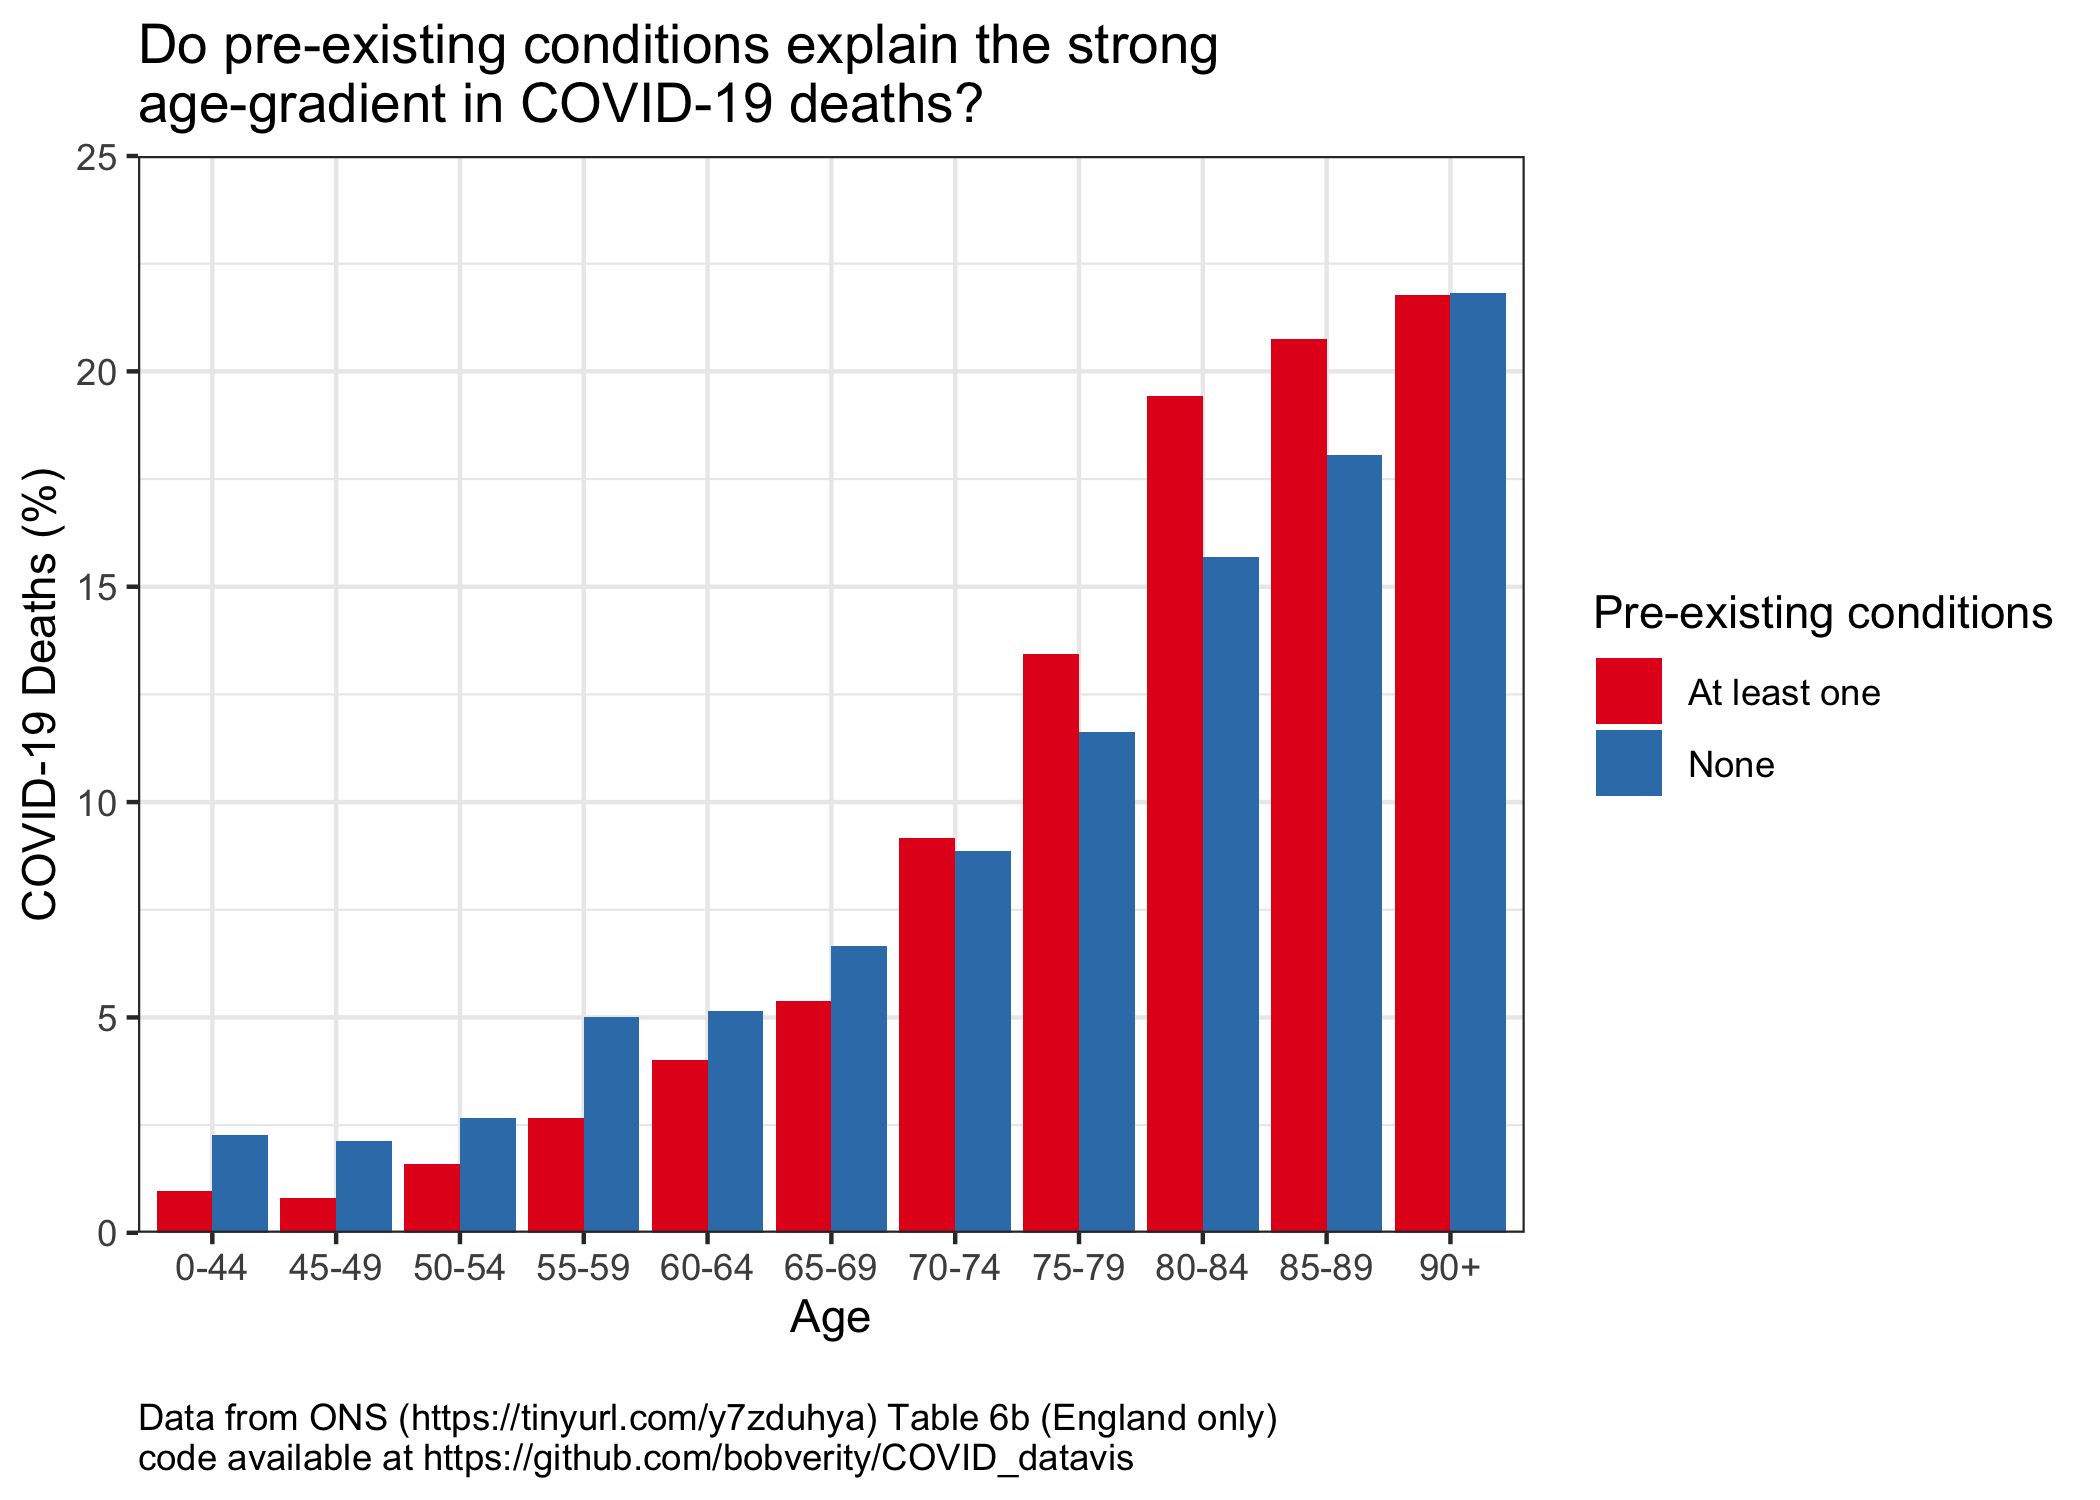
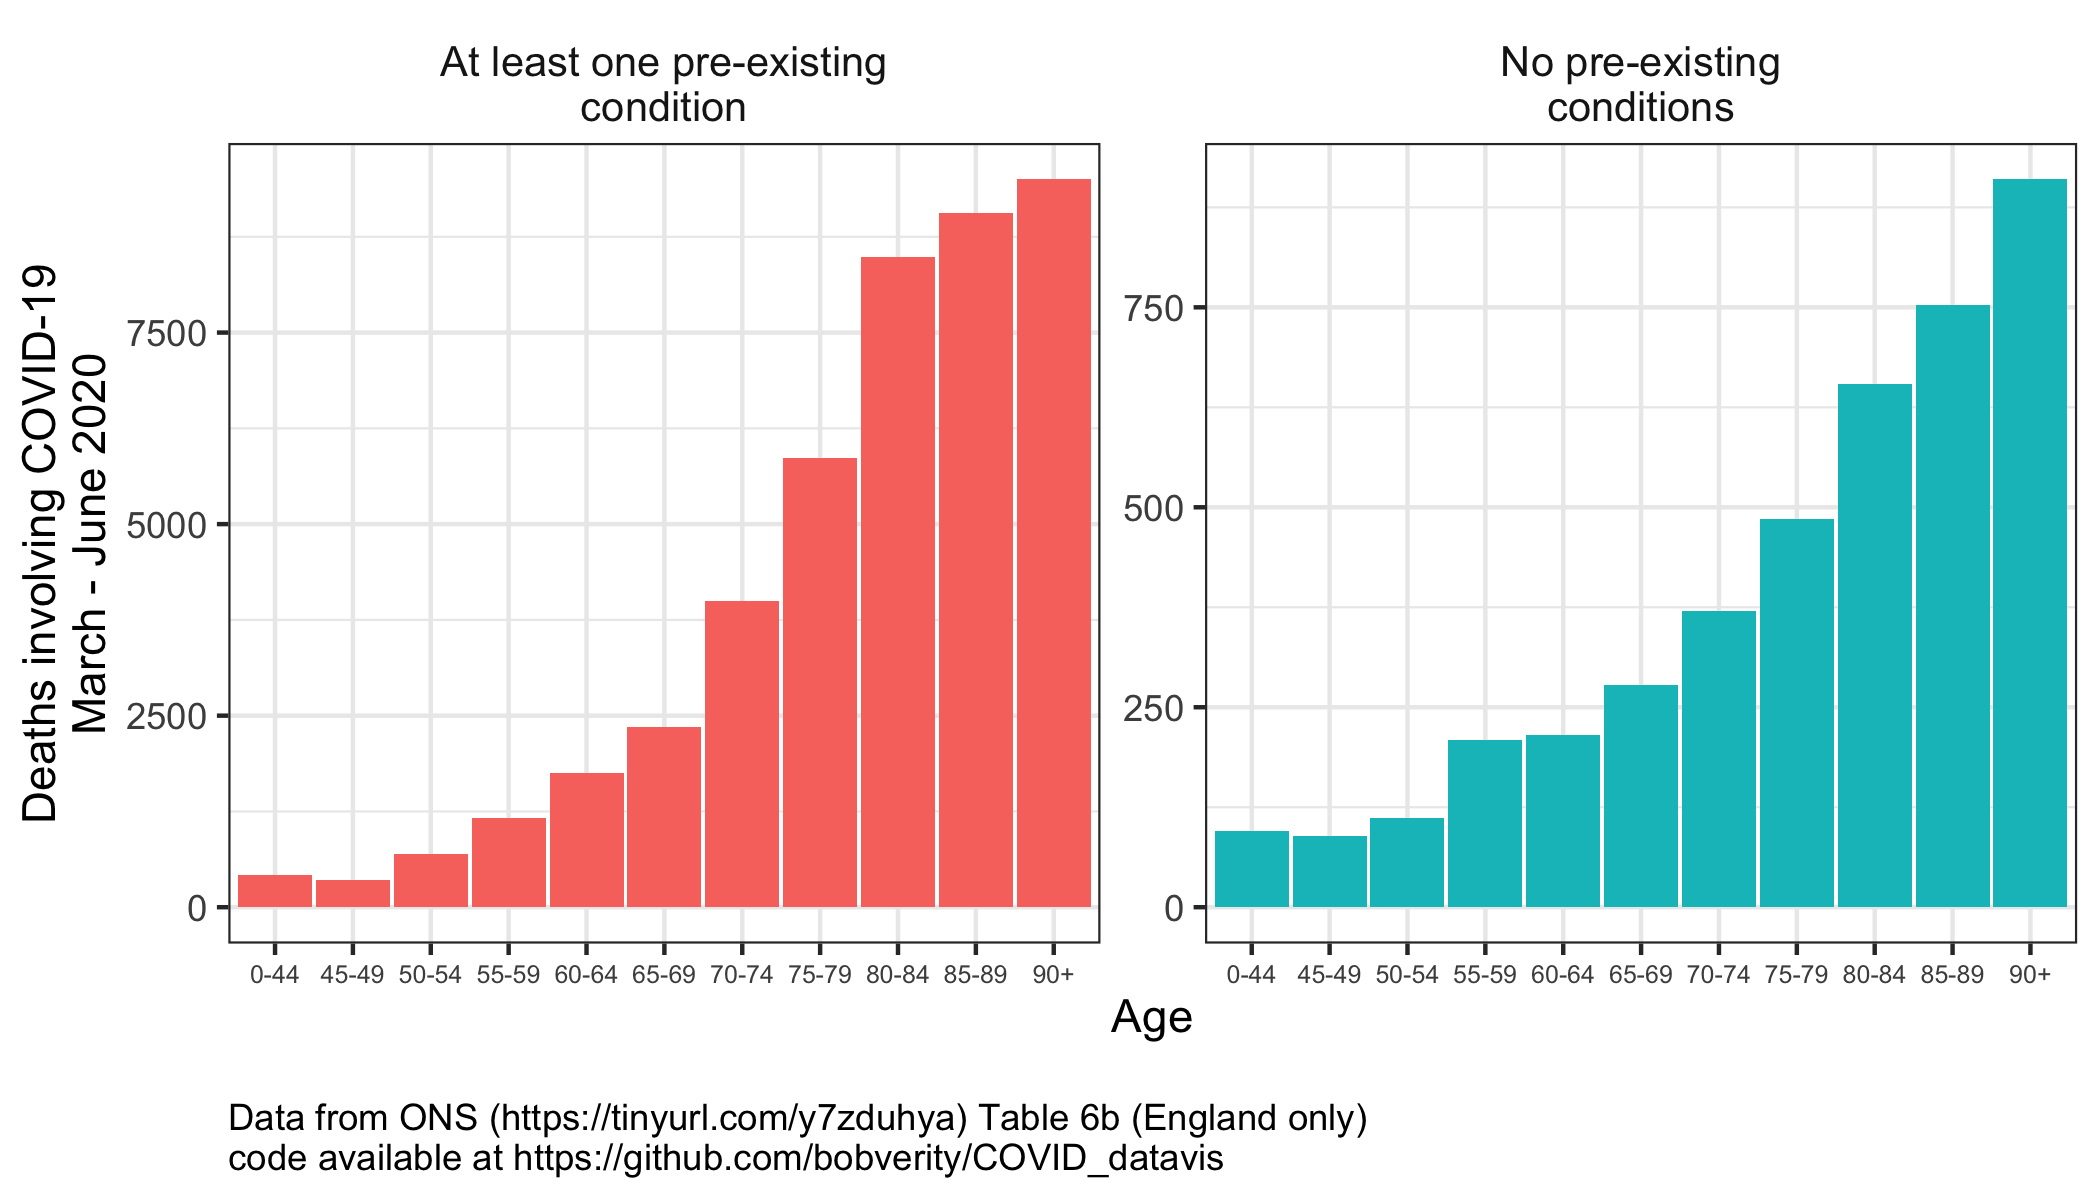
made new version of age-conditions plot that is hopefully more clear

diff --git a/README.md b/README.md
@@ -17,8 +17,8 @@ If the first and second waves were in different parts of the country then we wou
 
 See script *age_conditions.R*.
 
-We know that both age and the presence of certain underlying conditions (such as Diabetes, heart disease) are risk factors for death from COVID-19. But these two things are highly confounded, as people tend to develop more conditions as they age. This script attempts to pull this apart in a very basic way by looking at the age-distribution of deaths in those *without* any pre-existing conditions.
+We know that both age and the presence of certain underlying conditions (such as Diabetes, heart disease) are risk factors for death from COVID-19. But these two things are highly confounded, as people tend to develop more conditions as they age. This plot attempts to pull this apart in a very basic way by looking at the age-distribution of deaths in those *without* any pre-existing conditions, compared with those with at least one condition.
 
-Results indicate that age still plays an important role even in otherwise health individuals.
+Results indicate that age still plays an important role even in otherwise-healthy individuals.
 
 ![Age-distribution of COVID-19 deaths with and without pre-existing conditions](https://github.com/bobverity/COVID_datavis/blob/master/output/age_conditions.png?raw=true)
